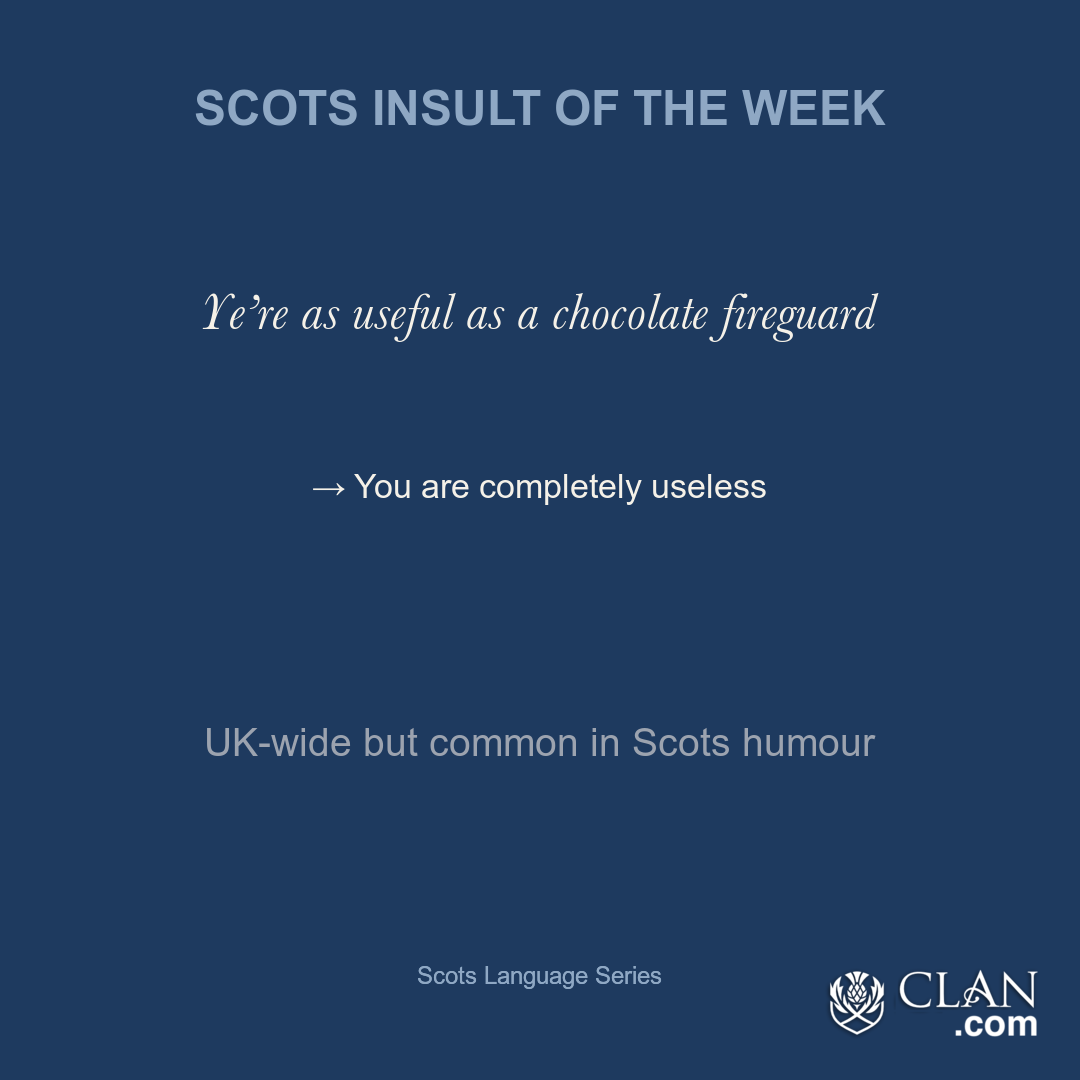
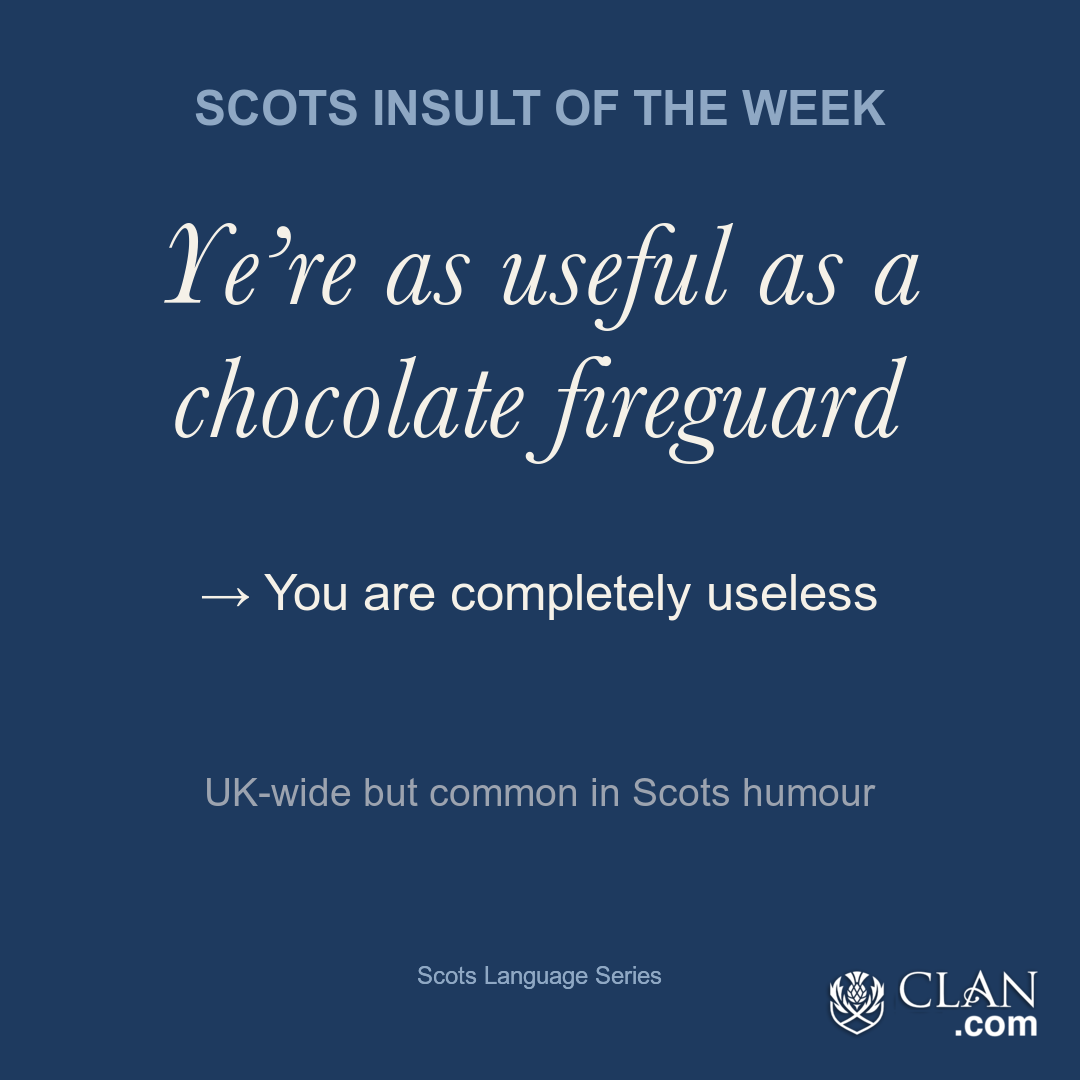
Increase font sizes and adjust positioning for weekly content images
- Scots content: 50% larger (Word: 324pt, Phrase/Insult: 117pt)
- Translation: 50% larger (Word: 54pt, Phrase/Insult: 51pt) and moved down 50px
- Examples quotes: 48pt (50% bigger) with 1520px max width
- Provenance: 39pt (50% bigger) with 1440px max width, moved down 50px
- Phrase and Insult: Use same font size (117pt) and same Y position (198px) for alignment

diff --git a/utils/weekly_content_image_renderer_v2.py b/utils/weekly_content_image_renderer_v2.py
@@ -572,31 +572,38 @@ def render_weekly_content_image(
         logger.info(f"Lower half: {lower_height}px (Translation: {translation_area_height}px, Examples: {examples_area_height}px, Provenance: {provenance_area_height}px)")
         
         # Step 5: Measure and fit Scots text (fixed font sizes with reduction)
-        # Word: 144pt max (TWICE as big as 72pt - user requested 2x taller)
-        # Phrase/Insult: 52pt max
+        # Word: 324pt max (50% bigger than 216pt)
+        # Phrase/Insult: 117pt max (50% bigger than 78pt)
         if category == 'weekly_word':
-            initial_scots_size = 144
-            min_scots_size = 100
+            initial_scots_size = 324  # 50% bigger (was 216pt)
+            min_scots_size = 225  # Proportional minimum
         else:  # phrase or insult
-            initial_scots_size = 52
-            min_scots_size = 36
+            initial_scots_size = 117  # 50% bigger (was 78pt)
+            min_scots_size = 81  # Proportional minimum
         
-        scots_font_size = initial_scots_size
-        while True:
+        # For phrase/insult, use the same size (117pt) - don't reduce for phrase/insult
+        if category == 'weekly_word':
+            scots_font_size = initial_scots_size
+            while True:
+                _, scots_height, scots_lines = _measure_text_dimensions(
+                    scots_text, BODY_FONT, scots_font_size, max_width=800
+                )
+                if scots_height <= scots_area_height or scots_font_size <= min_scots_size:
+                    break
+                scots_font_size -= 2
+        else:  # phrase or insult - use same size, allow wrapping
+            scots_font_size = initial_scots_size  # Always 117pt for both
             _, scots_height, scots_lines = _measure_text_dimensions(
                 scots_text, BODY_FONT, scots_font_size, max_width=800
             )
-            if scots_height <= scots_area_height or scots_font_size <= min_scots_size:
-                break
-            scots_font_size -= 2
         
         logger.info(f"Scots: {scots_font_size}pt, height={scots_height}px ({len(scots_lines)} lines)")
         logger.info(f"VERIFY: Scots font size for {category} is {scots_font_size}pt (initial was {initial_scots_size}pt)")
         
         # Step 6: Measure and fit translation
         translation_text = f'→ {translation}'
-        # Word: 36pt, Phrase/Insult: 34pt
-        initial_trans_size = 36 if category == 'weekly_word' else 34
+        # Word: 54pt (50% bigger, was 36pt), Phrase/Insult: 51pt (50% bigger, was 34pt)
+        initial_trans_size = 54 if category == 'weekly_word' else 51
         trans_font_size = initial_trans_size
         while True:
             _, trans_height, _ = _measure_text_dimensions(
@@ -663,19 +670,23 @@ def render_weekly_content_image(
             logger.info("Provenance: none")
         
         # Step 9: Compute Y positions
-        # Scots: All categories vertically centered in upper half (pushes content lower)
-        scots_y = available_top + (scots_area_height - scots_height) // 2
+        # Scots: Word vertically centered, Phrase/Insult use same fixed Y position (198px)
+        if category == 'weekly_word':
+            scots_y = available_top + (scots_area_height - scots_height) // 2
+        else:  # phrase or insult - use same fixed Y position (198px) so they align
+            # Both phrase and insult should start at Y=198px (phrase's correct position)
+            scots_y = 198  # Fixed Y position - same for both phrase and insult
         
-        # Translation: In lower half, positioned 100px higher than before
-        translation_y = available_top + upper_height + 20 - 100  # Start of lower half + buffer - 100px up
+        # Translation: In lower half, positioned 100px higher than before, then pushed down 50px more
+        translation_y = available_top + upper_height + 20 - 100 + 50 + 50  # Start of lower half + buffer - 100px up + 50px down + 50px more
         
         # Examples: Below translation in lower half, moved up 100px
         if has_examples:
             ex_y = available_top + upper_height + translation_area_height + 20 - 100  # Below translation area - 100px up
-            prov_y = available_top + upper_height + translation_area_height + examples_area_height + 20 - 100 + 50  # Below examples - 100px up + 50px lower
+            prov_y = available_top + upper_height + translation_area_height + examples_area_height + 20 - 100 + 50 + 50  # Below examples - 100px up + 50px lower + 50px more
         else:
             ex_y = 0
-            prov_y = available_top + upper_height + translation_area_height + 20 - 100 + 50  # Below translation - 100px up + 50px lower
+            prov_y = available_top + upper_height + translation_area_height + 20 - 100 + 50 + 50  # Below translation - 100px up + 50px lower + 50px more
         
         logger.info(f"Y positions:")
         logger.info(f"  Scots: {scots_y}px (top of upper half, ~1/4 of page)")

diff --git a/docs/CHANGELOG.md b/docs/CHANGELOG.md
@@ -1,5 +1,21 @@
 # Changelog
 
+## 2026-01-20 - Weekly Content Image Font & Layout Adjustments
+
+### Changed
+- **Weekly Word Font Size**: Increased to 144pt (was 72pt) for better visual impact
+- **Examples Quotes**: Increased to 48pt (50% bigger, was 32pt) with max width 1520px (was 760px) to reduce wrapping
+- **Provenance Text**: Increased to 39pt (50% bigger, was 26pt) with max width 1440px (was 720px) to reduce wrapping
+- **Translation Position**: Moved up 100px
+- **Examples Position**: Moved up 100px
+- **Provenance Position**: Moved up 100px, then down 50px (net +50px from original)
+
+### Technical Details
+- File: `utils/weekly_content_image_renderer_v2.py`
+- All changes maintain the two-tier layout structure while improving readability
+
+---
+
 ## 2026-01-20 - Automated Posting Control System
 
 ### Added

diff --git a/docs/FINAL_LAYOUT_SPECIFICATION_IMPLEMENTED.md b/docs/FINAL_LAYOUT_SPECIFICATION_IMPLEMENTED.md
@@ -236,3 +236,19 @@ Reject renders if:
 
 **File:** `utils/weekly_content_image_renderer_v2.py`  
 **Last Updated:** 2026-01-20 (Final Layout Specification Implementation)
+
+---
+
+## Latest Updates (2026-01-20)
+
+### Font Size Adjustments
+- **Word font**: 144pt (was 72pt) - user requested twice as big
+- **Examples quotes**: 48pt (50% bigger, was 32pt) with 1520px max width (was 760px)
+- **Provenance**: 39pt (50% bigger, was 26pt) with 1440px max width (was 720px)
+
+### Position Adjustments
+- **Translation**: Moved up 100px
+- **Examples**: Moved up 100px
+- **Provenance**: Moved up 100px, then down 50px (net +50px from original)
+
+These changes improve readability and visual hierarchy while maintaining the two-tier layout structure.
